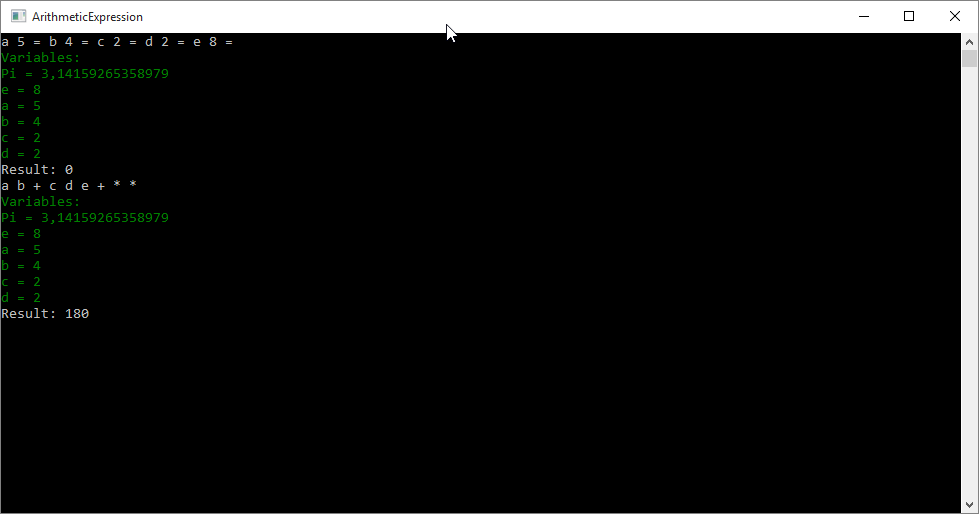
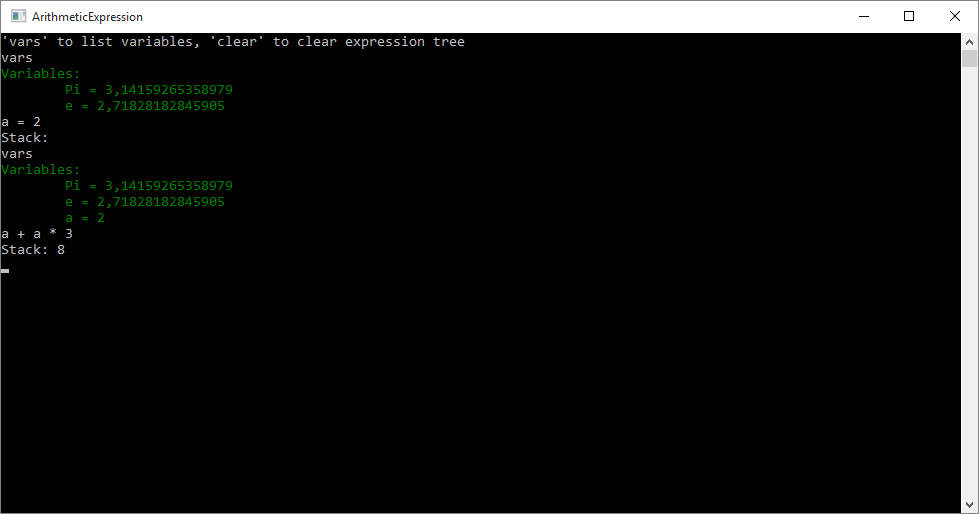
Tree now builds according to proper order of precedence Note: Now infix

Changed region(s): [[0.0, 0.0623, 0.4903, 0.2179], [0.0, 0.2179, 0.2451, 0.5292], [0.0, 0.5603, 0.0919, 0.6226]]

diff --git a/ArithmeticExpression/Expression/Expression.cs b/ArithmeticExpression/Expression/Expression.cs
@@ -10,17 +10,10 @@ namespace ArithmeticExpression.Expression
     public class Expression
     {
         public Expression()
-            : this(DepthTraversalMethod.PostOrder)
         { }
 
-        public Expression(DepthTraversalMethod traversal)
-        {
-            Traversal = traversal;
-        }
-        
-                public Stack<ExpressionNode> TreeStack { get; private set; } = new Stack<ExpressionNode>();
+        public List<ExpressionNode> TreeStack { get; private set; } = new List<ExpressionNode>();
         public OperandContext Context { get; set; } = new OperandContext();
-        public DepthTraversalMethod Traversal { get; private set; } = DepthTraversalMethod.PostOrder;
 
         public bool IsComplete
         {
@@ -33,87 +26,27 @@ namespace ArithmeticExpression.Expression
             {
                 if (!IsComplete)
                     return null; // Tree is not complete
-                return TreeStack.Peek();
+                return Build();
             }
         }
 
         public void Add(ExpressionNode node)
         {
-            TreeStack.Push(node);
+            TreeStack.Add(node);
+        }
 
-            while (TreeStack.Count > 0 && TreeStack.Count % 3 == 0)
-            {
-                ExpressionNode leftOperand, rightOperand, exprOperator;
-
-                switch (Traversal)
-                {
-                    case DepthTraversalMethod.PreOrder:
-                        rightOperand = TreeStack.Pop();
-                        leftOperand = TreeStack.Pop();
-                        exprOperator = TreeStack.Pop();
-                        break;
-
-                    case DepthTraversalMethod.InOrder:
-                        rightOperand = TreeStack.Pop();
-                        exprOperator = TreeStack.Pop();
-                        leftOperand = TreeStack.Pop();
-                        break;
-
-                    default:
-                    case DepthTraversalMethod.PostOrder:
-                        exprOperator = TreeStack.Pop();
-                        rightOperand = TreeStack.Pop();
-                        leftOperand = TreeStack.Pop();
-                        break;
-                }
-
-                exprOperator.Left = leftOperand;
-                exprOperator.Right = rightOperand;
-                if (exprOperator.Operator == Operators.Define)
-                { // Special case -- defining variables
-                    Context.Variables[leftOperand.Operand.Variable] = rightOperand.Operand.Number;
-                    continue; // Don't push defines on stack
-                }
-
-                TreeStack.Push(exprOperator);
-            }
+        public void Clear()
+        {
+            TreeStack.Clear();
         }
 
         public double Evaluate()
         {
-            return Tree.GetEvaluated(Context);
-            //return Evaluate(Tree);
+            return Tree.Evaluate(Context);
         }
 
-        //public double Evaluate(ExpressionNode node)
-        //{
-        //    if (node == null) return 0;
-
-        //    if (node.Operator != Operators.Operand)
-        //    {
-        //        if (node.Left == null || node.Right == null)
-        //            return 0; // this shouldn't happen
-
-        //        // cue ugly debug code
-        //        if (System.Diagnostics.Debugger.IsAttached)
-        //        {
-        //            var l = Evaluate(node.Left);
-        //            var r = Evaluate(node.Right);
-        //            var res = Algebra.Evaluators[node.Operator](l, r);
-        //            Console.ForegroundColor = ConsoleColor.Red;
-        //            Console.WriteLine("{0}({1}, {2}) = {3}", node.Operator, l, r, res);
-        //            Console.ForegroundColor = ConsoleColor.Gray;
-        //            return res;
-        //        }
-        //        // the end
-
-        //        return Algebra.Evaluators[node.Operator](Evaluate(node.Left), Evaluate(node.Right));
-        //    }
-        //    return node.Operand.GetValue(Context);
-        //}
-
         public void Add(string token)
-        {
+        { // cheap ass parser
             if (token.Any(char.IsWhiteSpace))
             { // If there are whitespaces, then these are tokenSSSSSS
                 foreach (var t in token.Split(' '))
@@ -122,17 +55,60 @@ namespace ArithmeticExpression.Expression
             }
 
             double number;
-            if (token.Length == 1 && Algebra.CharOperators.ContainsKey(token[0])) // Operator
-                Add(new ExpressionNode(Algebra.CharOperators[token[0]]));
-            else if (double.TryParse(token, out number)) // Number Operand
-                Add(new ExpressionNode(number));
-            else // Variable operand
-                Add(new ExpressionNode(token));
+            if (token.Length == 1 && Algebra.CharOperators.ContainsKey(token[0]))
+                Add(new OperatorNode(Algebra.CharOperators[token[0]]));
+            else if (double.TryParse(token, out number))
+                Add(new ValueNode(number));
+            else
+                Add(new VariableNode(token));
         }
 
-        public void Clear()
+        public ExpressionNode Build()
         {
-            TreeStack.Clear();
+            if (TreeStack.Count == 0) throw new Exception("Empty expression tree");
+            if (TreeStack.Count == 1) return TreeStack[0];
+
+            var hasNext = new Func<int, bool>(i => i + 1 < TreeStack.Count);
+
+            var precedents = new Stack<int>();
+            for (var i = 0; i < TreeStack.Count; i++)
+            {
+                // TODO: unary check
+
+                if (TreeStack[i] is OperandNode && i + 1 < TreeStack.Count)
+                    continue;
+
+                if (TreeStack[i] is OperatorNode)
+                {
+                    if (precedents.Count == 0 || ((OperatorNode)TreeStack[i]).Precedence < ((OperatorNode)TreeStack[precedents.Peek()]).Precedence)
+                    {
+                        precedents.Push(i);
+                        if (i + 1 < TreeStack.Count)
+                            continue;
+                    }
+                }
+
+                while (precedents.Count > 0)
+                {
+                    i = precedents.Pop();
+                    var oper = (OperatorNode)TreeStack[i];
+                    oper.SetChildren(TreeStack[i - 1], TreeStack[i + 1]);
+                    if (oper.Activate(Context))
+                    {
+                        TreeStack.RemoveAt(i + 1);
+                        TreeStack.RemoveAt(i - 1);
+                    }
+                    else
+                        TreeStack.RemoveRange(i - 1, 3);      
+
+                    i--;
+                }
+            }
+
+            if (TreeStack.Count == 0)
+                return null; // This can happen if we i.e. define variables and the stack otherwise is empty
+
+            return TreeStack[0];
         }
     }
 }

diff --git a/ArithmeticExpression/Expression/BinTree/ExpressionNode.cs b/ArithmeticExpression/Expression/BinTree/ExpressionNode.cs
@@ -6,62 +6,25 @@ using System.Threading.Tasks;
 
 namespace ArithmeticExpression.Expression.BinTree
 {
-    public class ExpressionNode
+    public abstract class ExpressionNode
     {
-        public ExpressionNode() { }
+        public ExpressionNode Left { get; set; }
+        public ExpressionNode Right { get; set; }
 
-        public ExpressionNode(ExpressionNode left, ExpressionNode right)
+        public void SetChildren(ExpressionNode left, ExpressionNode right)
         {
             Left = left;
             Right = right;
         }
 
-        public ExpressionNode(string var)
+        public virtual bool Activate(OperandContext ctx) { return true; }
+
+        public abstract double Evaluate(OperandContext ctx);
+        public abstract string Literal { get; }
+
+        public override string ToString()
         {
-            Operator = Operators.Operand;
-
-            Operand = new Operand();
-            Operand.Variable = var;
-        }
-
-        public ExpressionNode(double number)
-        {
-            Operator = Operators.Operand;
-
-            Operand = new Operand();
-            Operand.Number = number;
-        }
-
-        public ExpressionNode(Operators op)
-        {
-            Operator = op;
-        }
-
-        public ExpressionNode Left { get; set; }
-        public ExpressionNode Right { get; set; }
-
-        public Operators Operator { get; set; }
-        public Operand Operand { get; private set; }
-
-        public double GetEvaluated(OperandContext ctx)
-        {
-            if (Operator == Operators.Operand)
-                return Operand.GetValue(ctx);
-            return Algebra.Evaluators[Operator](Left.GetEvaluated(ctx), Right.GetEvaluated(ctx));
-        }
-
-        public string GetLiteralLabel()
-        {
-            if (Operator == Operators.Operand)
-                return Operand.Variable ?? Operand.Number.ToString();
-            return Operator.ToString();
-        }
-
-        public string GetEvaluatedLabel(OperandContext ctx)
-        {
-            if (Operator == Operators.Define)
-                return string.Format("{0} = {1}", Left.Operand.Variable, Right.Operand.Number);
-            return GetEvaluated(ctx).ToString();
+            return Literal;
         }
     }
 }

diff --git a/ArithmeticExpression/Program.cs b/ArithmeticExpression/Program.cs
@@ -13,7 +13,7 @@ namespace ArithmeticExpression
         static void Main(string[] args)
         {
             Console.Title = "ArithmeticExpression";
-            Console.WriteLine("'vars' to list variables, 'clear' to clear expression tree, 'pre', 'in', 'post' (def.) for change of traversals");
+            Console.WriteLine("'vars' to list variables, 'clear' to clear expression tree");
 
             var e = new Expression.Expression();
 
@@ -22,11 +22,6 @@ namespace ArithmeticExpression
             {
                 switch (line)
                 {
-                    // Change between traversals
-                    case "pre": e = new Expression.Expression(DepthTraversalMethod.PreOrder); break;
-                    case "in": e = new Expression.Expression(DepthTraversalMethod.InOrder); break;
-                    case "post": e = new Expression.Expression(DepthTraversalMethod.PostOrder); break;
-
                     case "vars": // Dump variables
                         Console.ForegroundColor = ConsoleColor.DarkGreen;
                         Console.WriteLine("Variables:");
@@ -40,12 +35,13 @@ namespace ArithmeticExpression
                         Console.Clear();
                         break;
 
-                    default: // TOKEN!!!!!!
+                    default:
                         e.Add(line);
+                        e.Build();
 
                         Console.Write("Stack: ");
                         if (!e.IsComplete)
-                            Console.WriteLine(string.Join(" ", e.TreeStack.Select(n => n.GetEvaluated(e.Context))));
+                            Console.WriteLine(string.Join(" ", e.TreeStack.Select(n => n.Evaluate(e.Context))));
                         else
                             Console.WriteLine(e.Evaluate());
                         break;

diff --git a/ArithmeticExpression/Expression/Operators.cs b/ArithmeticExpression/Expression/Operators.cs
@@ -6,10 +6,9 @@ using System.Threading.Tasks;
 
 namespace ArithmeticExpression.Expression
 {
+    [Flags]
     public enum Operators
     {
-        Operand,
-
         Multiply,
         Divide,
         Add,
@@ -18,5 +17,19 @@ namespace ArithmeticExpression.Expression
         Modulus,
 
         Define
+    }
+
+    public enum Precedence
+    {
+        Primary = 0,
+        Unary,
+        Multiplicative,
+        Additive,
+        Shift,
+        Relational,
+        Equality,
+        Logical, // AND XOR OR
+        Conditional, // AND OR
+        Assignment
     }
 }
